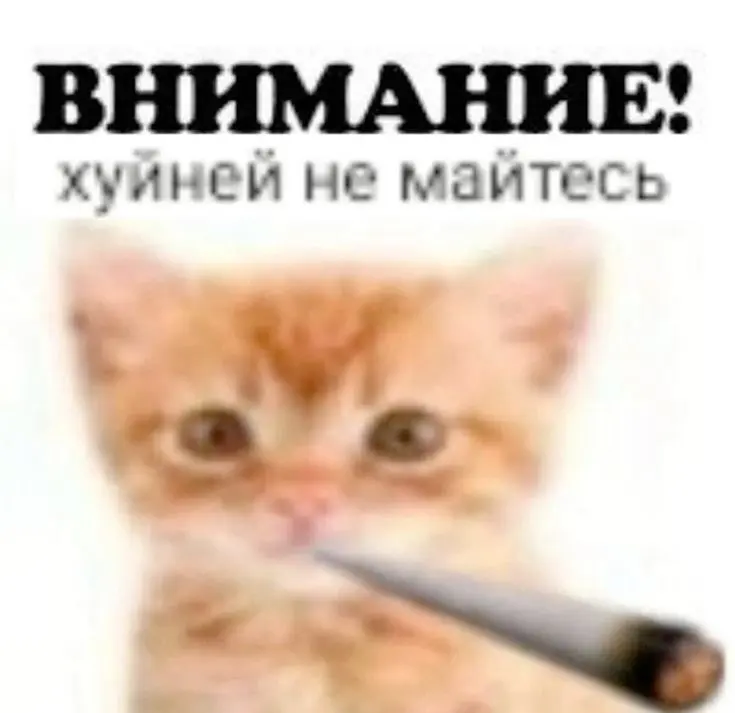
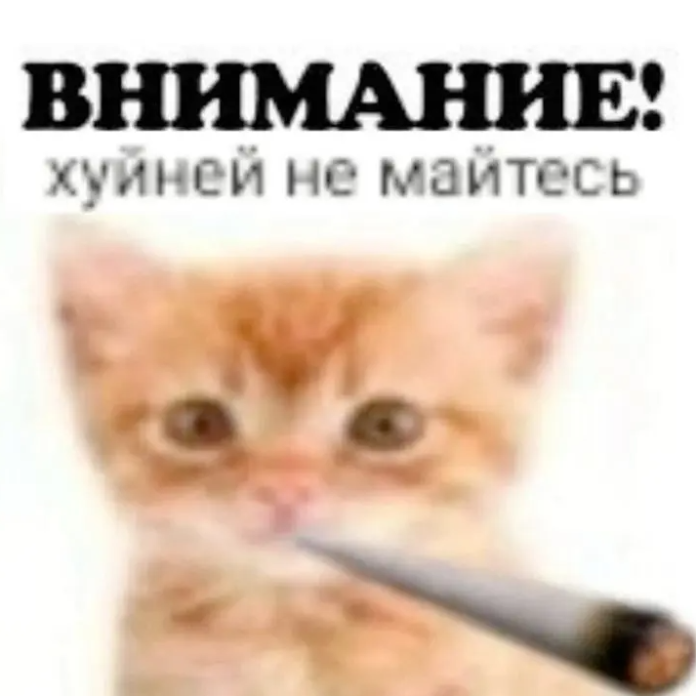
SOHRA

diff --git a/index.html b/index.html
@@ -21,14 +21,14 @@
         <h2 class = "section-title">Фритрек и нулевой спринт: Подготовка к работе</h2>
           <div class = "card-image">
             <span class = "label">&lt;/HTML&gt;</span>
-            <img class = "card_type" src = "./images/card1.webp" alt = "кот с сигарой"/>
+            <img class = "card_type" src = "./images/card4.webp" alt = "кот с сигарой"/>
           </div>
           <div class = "text-card">
             <p>Это было самое начало пути. На этом этапе важно было проникнуться основами и настроиться на учёбу. И, возможно, подумать, как новые знания могут повлиять на ваше будущее.</p>
-            <p>интересно</p>
+            <p>Страшное окончание. Осознание никчёмности</p>
           </div>
           <div class = "card-button">
-          <button class = "card-icon__button" type = "button" aria-label="лайк">
+          <button class = "card__like-button" type = "button" aria-label="лайк">
             <svg class = "like-icon" width="39" height="36" viewBox="0 0 39 36" fill = "none" xmlns = "https://www.w3.org/2000/svg">
               <g class="heart">
                 <path class = "contur" d="M12 6H9V9H12V6ZM15 6H12V9H15V6ZM9 9H6V12H9V9ZM9 12H6V15H9V12ZM9 15H6V18H9V15ZM18 6H15V9H18V6ZM12 18H9V21H12V18ZM15 21H12V24H15V21ZM18 24H15V27H18V24ZM27 6H30V9H27V6ZM24 6H27V9H24V6ZM30 9H33V12H30V9ZM30 12H33V15H30V12ZM30 15H33V18H30V15ZM21 6H24V9H21V6ZM27 18H30V21H27V18ZM24 21H27V24H24V21ZM21 24H24V27H21V24ZM21 27H18V30H21V27ZM21 9H18V12H21V9Z" fill="var(--contur-color)"/>
@@ -38,8 +38,8 @@
               <path class="sparks" d="M36 13H39V16H36V13ZM27 27H30V30H27V27ZM18 33H21V36H18V33ZM9 27H12V30H9V27ZM24 0H27V3H24V0ZM33 3H36V6H33V3ZM3 3H6V6H3V3ZM12 0H15V3H12V0ZM0 13H3V16H0V13Z" fill="var(--heart-like-color)"/>
             </svg>
           </button>
-          <button class = "card-like__button" type = "button">
-            <span class = "text-button">Like</span>
+          <button class = "card__like-button" type = "button">
+            <span class = "button__text">Like</span>
           </button>
           </div>
       </article>

diff --git a/styles/style.css b/styles/style.css
@@ -78,8 +78,8 @@
   border: 2px solid #000;
   background-color: #fff;
   gap: 1px;
-  max-width: 696px;
-  max-height: 1001px;
+  margin-inline: auto;
+  max-inline-size: 696px;
 }
 
 @media (width <= 375px) {
@@ -95,11 +95,56 @@
 }
 
 .card-image {
-  display: grid;
-  border: 2px solif #000;
+  border-block-start: 2px solid #000;
+  border-block-end: 2px solid #000;
   position: relative;
-  max-width: 696px;
-  max-height: 696px;
   aspect-ratio: 1/1;
   margin-inline: auto;
+}
+
+.label {
+  position: absolute;
+  font-family: var(--font-accent, fantazy);
+  font-size: 14px;
+  top: 25px;
+  right: 25px;
+  z-index: 1;
+  color: #000;
+  filter: opacity(50%);
+  text-shadow: 1px var( --font-accent-color, #fff);
+  display: block;
+}
+
+@media (width <= 375px) {
+  .label {
+    top: 23px;
+    right: 11px;
+  }
+}
+
+.card_type {
+  object-fit: cover;
+  object-position: center;
+  display: block;
+  inline-size: 100%;
+  block-size: 100%;
+}
+
+.text-card {
+  display: flex;
+  flex-direction: column;
+  padding: 25px;
+  gap: 27px;
+  font-family: var(--font-main);
+  line-height: 21px;
+  font-size: 18px;
+  font-weight: 400;
+}
+
+.card-button {
+  display: flex;
+  justify-content: end;
+  gap: 5px;
+  align-items: center;
+  padding: 0 25px 25px 0;
 }

diff --git a/fonts/fonts.css b/fonts/fonts.css
@@ -1,1 +1,19 @@
 /* В этом файле вы импортируете все шрифты для сайта. Один из них вариативный и требует особенной настройки */
+@font-face {
+    font-family: "Press Start 2P";
+    src: url(./PressStart2P-Regular.woff) format("woff");
+    font-weight: 400;
+    font-display: swap;
+    font-style: normal;
+}
+
+@font-face {
+    font-family: Inter;
+    font-weight: 400 785;
+    src: 
+        local("Inter=Variable"),
+        url(./Inter-Variable.woff2) format("woff2 supports variations"),
+        url(./Inter-Variable.woff2) format("woff2-variations");
+    font-display: swap;
+    font-style: normal;
+}
